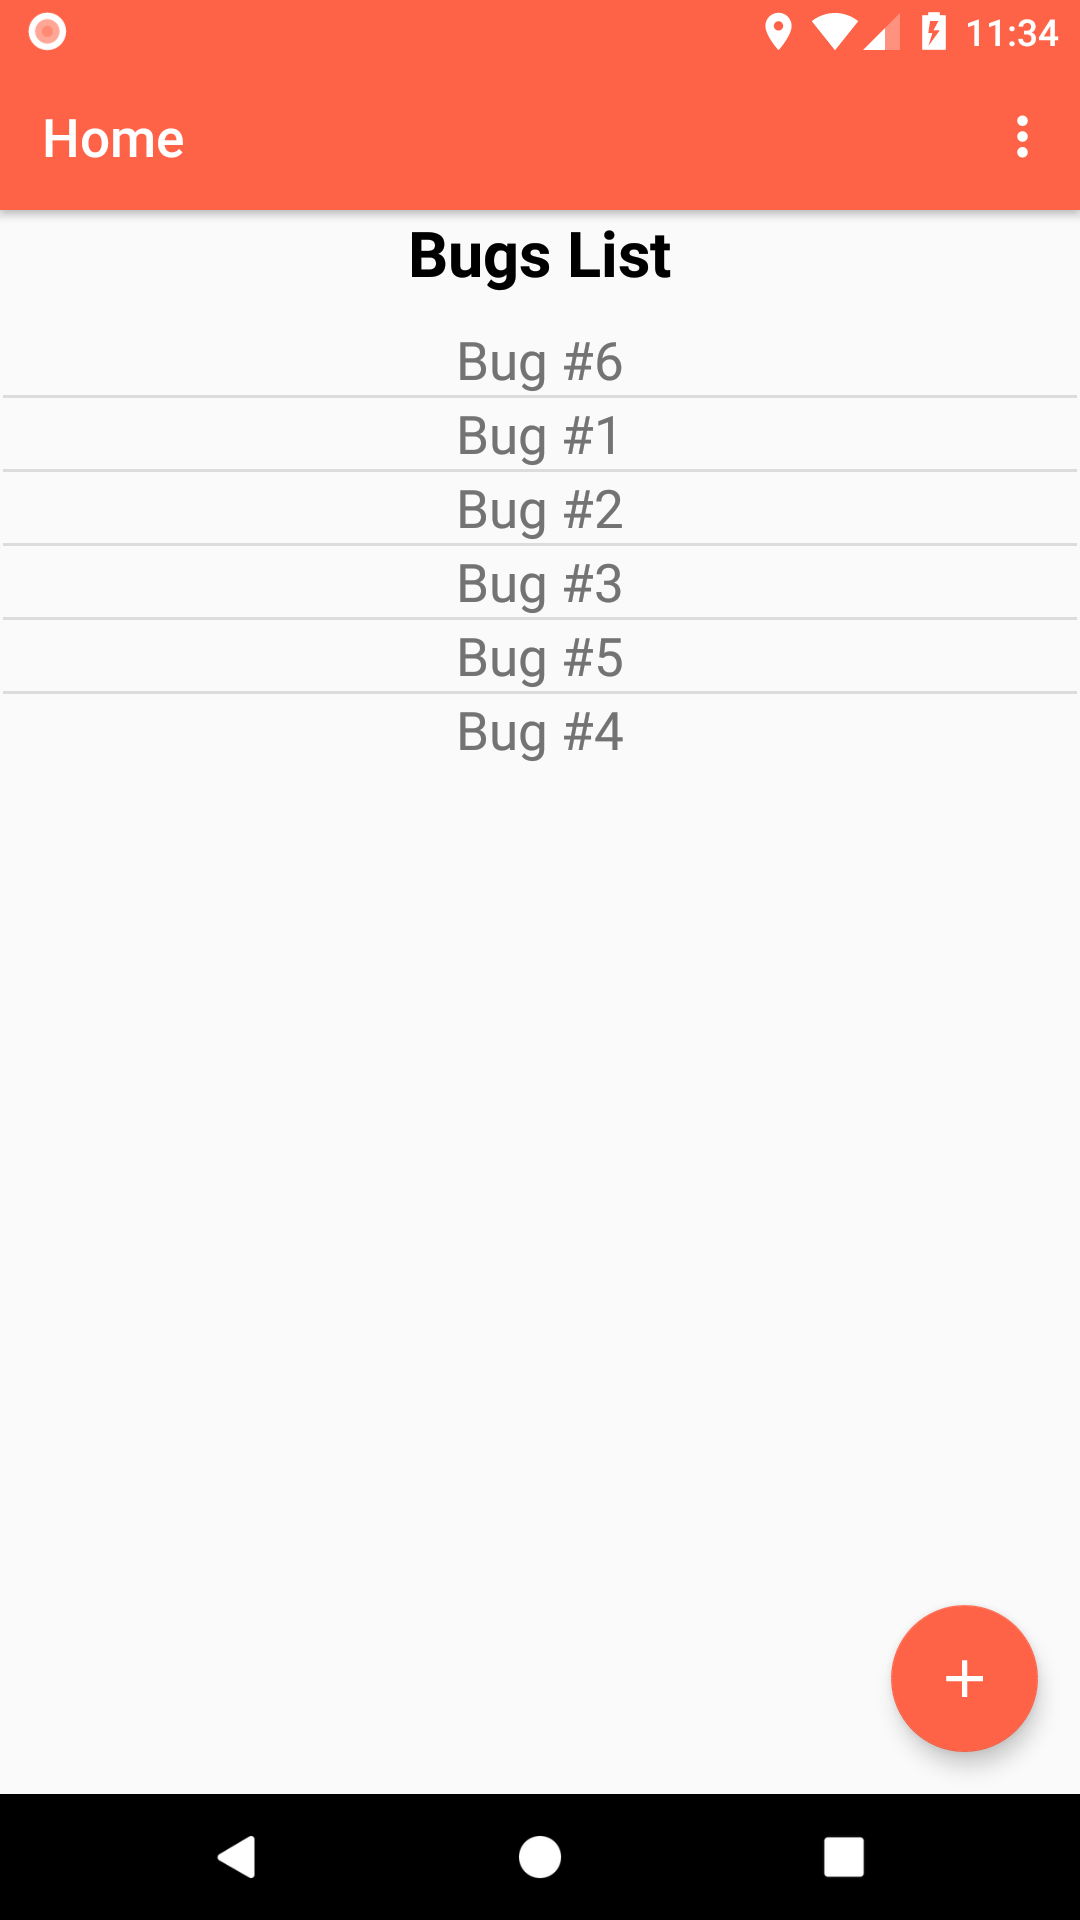
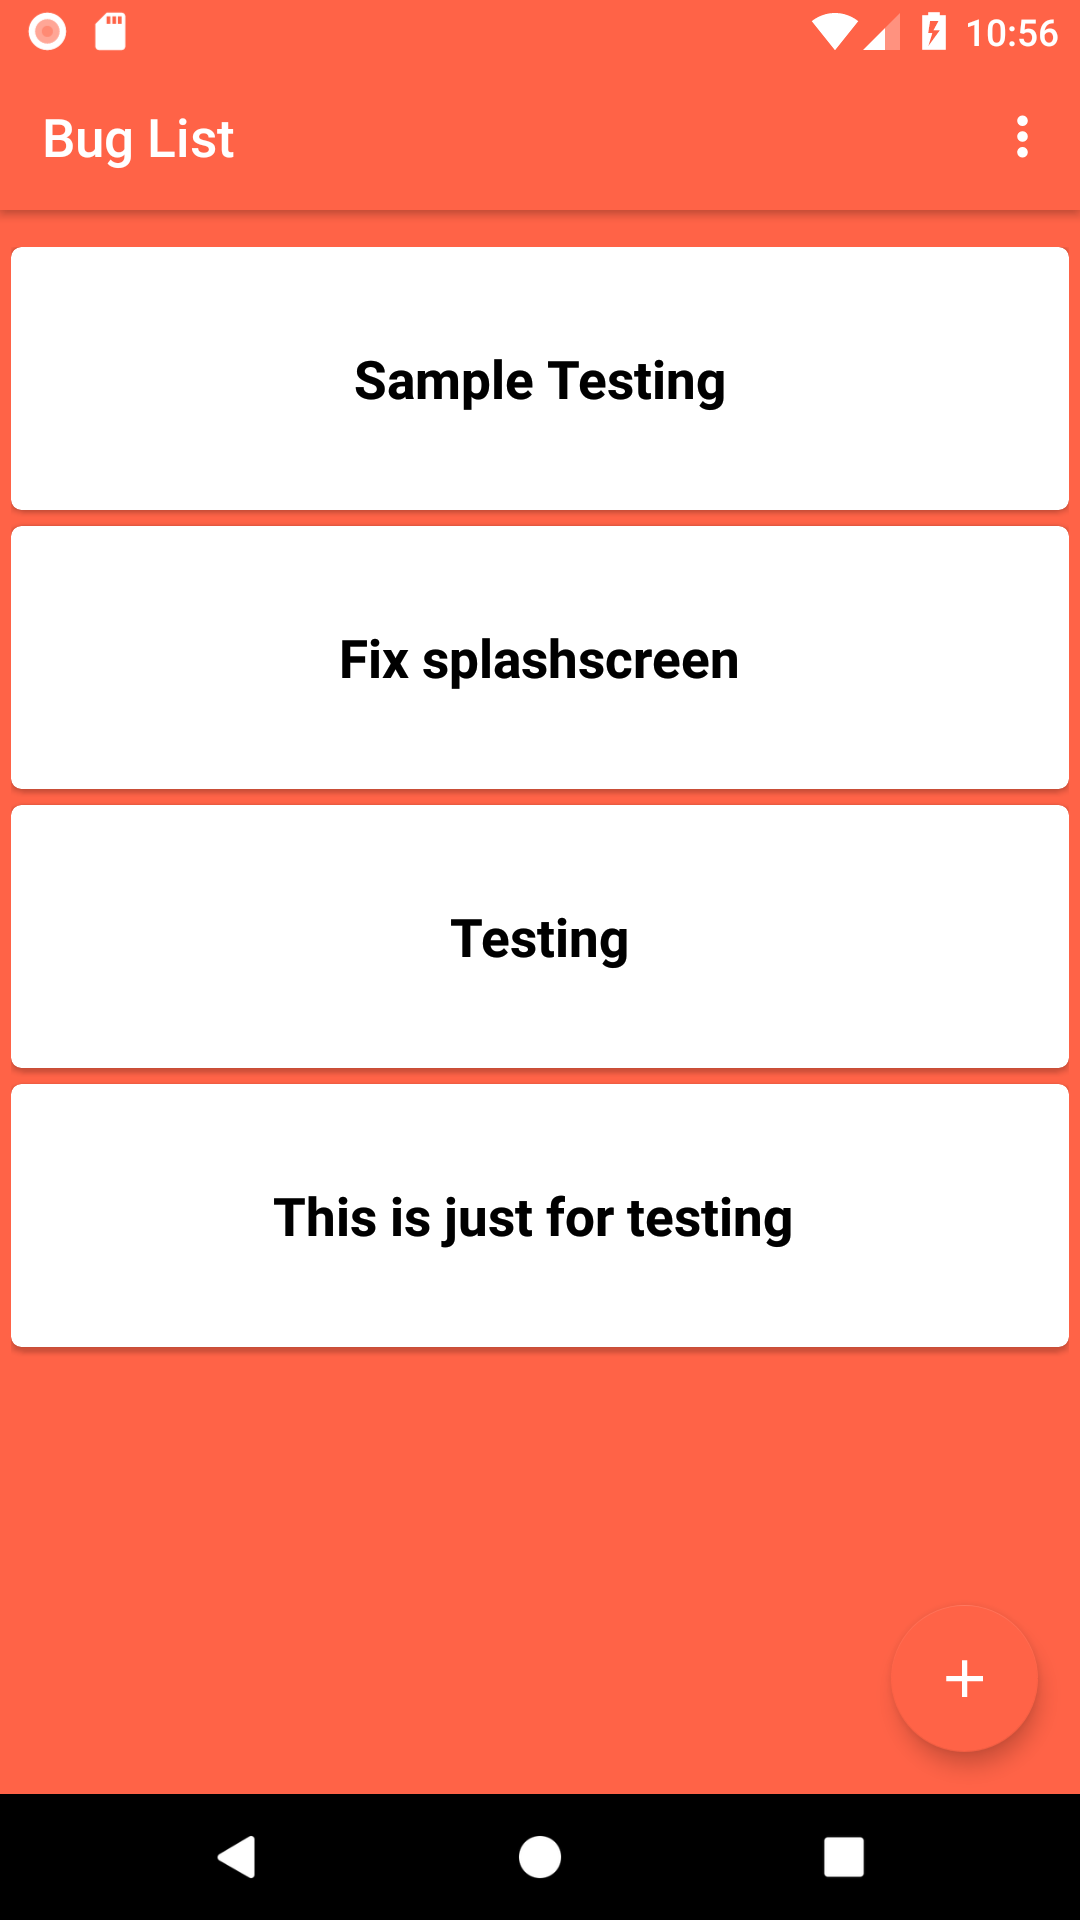
Improved UI

diff --git a/app/src/main/java/com/example/sivaram/bugtracker/MainActivity.java b/app/src/main/java/com/example/sivaram/bugtracker/MainActivity.java
@@ -55,7 +55,7 @@ public class MainActivity extends AppCompatActivity
 
         Toolbar toolbar = (Toolbar) findViewById(R.id.toolbar);
         setSupportActionBar(toolbar);
-        getSupportActionBar().setTitle("Home");
+        getSupportActionBar().setTitle("Bug List");
         try {
             admin = getIntent().getExtras().getBoolean("Admin",false);
             userid = getIntent().getExtras().getString("UID");
@@ -70,42 +70,42 @@ public class MainActivity extends AppCompatActivity
         MyApolloClient.getApolloClient().query(ViewBugsQuery.builder()
                 .userId(userid).build())
                 .enqueue(new ApolloCall.Callback<ViewBugsQuery.Data>() {
-            @Override
-            public void onResponse(@Nonnull final Response<ViewBugsQuery.Data> response) {
-
-                runOnUiThread(new Runnable() {
                     @Override
-                    public void run() {
-                        listitemtitle=new String[response.data().viewBugs.size()];
-                        listitemdescp= new String[response.data().viewBugs.size()];
-                        assignedto= new String[response.data().viewBugs.size()];
-                        bugidd= new String[response.data().viewBugs.size()];
-                        statuss=new String[response.data().viewBugs.size()];
-                        for (int i=0;i<response.data().viewBugs.size();i++) {
-                            Log.e("",""+response.data().viewBugs.get(i).title);
-                            listitemtitle[i]=response.data().viewBugs.get(i).title;
-                            bugidd[i]=response.data().viewBugs.get(i).id;
-                            statuss[i]=response.data().viewBugs.get(i).status;
-                            listitemdescp[i]=response.data().viewBugs.get(i).description;
-                            assignedto[i]=response.data().viewBugs.get(i).assignedTo.email;
-                            Log.e("",""+ Arrays.toString(assignedto));
-                            list.add(response.data().viewBugs.get(i).title);
-                            adapter.notifyDataSetChanged();
-                        }
+                    public void onResponse(@Nonnull final Response<ViewBugsQuery.Data> response) {
+
+                        runOnUiThread(new Runnable() {
+                            @Override
+                            public void run() {
+                                listitemtitle=new String[response.data().viewBugs.size()];
+                                listitemdescp= new String[response.data().viewBugs.size()];
+                                assignedto= new String[response.data().viewBugs.size()];
+                                bugidd= new String[response.data().viewBugs.size()];
+                                statuss=new String[response.data().viewBugs.size()];
+                                for (int i=0;i<response.data().viewBugs.size();i++) {
+                                    Log.e("",""+response.data().viewBugs.get(i).title);
+                                    listitemtitle[i]=response.data().viewBugs.get(i).title;
+                                    bugidd[i]=response.data().viewBugs.get(i).id;
+                                    statuss[i]=response.data().viewBugs.get(i).status;
+                                    listitemdescp[i]=response.data().viewBugs.get(i).description;
+                                    assignedto[i]=response.data().viewBugs.get(i).assignedTo.email;
+                                    Log.e("",""+ Arrays.toString(assignedto));
+                                    list.add(response.data().viewBugs.get(i).title);
+                                    adapter.notifyDataSetChanged();
+                                }
+
+                            }
+                        });
+
+
+
+                    }
+
+                    @Override
+                    public void onFailure(@Nonnull ApolloException e) {
+                        Log.e("","jhfjhfjhjfd");
 
                     }
                 });
-
-
-
-            }
-
-            @Override
-            public void onFailure(@Nonnull ApolloException e) {
-                Log.e("","jhfjhfjhjfd");
-
-            }
-        });
 
         bugid.setAdapter(adapter);
         bugid.setOnItemClickListener(new AdapterView.OnItemClickListener() {
@@ -138,11 +138,11 @@ public class MainActivity extends AppCompatActivity
         fab.setOnClickListener(new View.OnClickListener() {
             @Override
             public void onClick(View view) {
-               Intent intent= new Intent(MainActivity.this,AddBug.class);
+                Intent intent= new Intent(MainActivity.this,AddBug.class);
                 intent.putExtra("UID",userid);
                 intent.putExtra("assigned",assignedto);
                 intent.putExtra("Admin",admin);
-               startActivity(intent);
+                startActivity(intent);
             }
         });
 

diff --git a/app/src/main/java/com/example/sivaram/bugtracker/MyApolloClient.java b/app/src/main/java/com/example/sivaram/bugtracker/MyApolloClient.java
@@ -6,7 +6,7 @@ import okhttp3.OkHttpClient;
 import okhttp3.logging.HttpLoggingInterceptor;
 
 public class MyApolloClient {
-    private  static final String BASE_URL = "https://bugtracker-server.herokuapp.com/";
+    private  static final String BASE_URL = "https://bugtracker-server.herokuapp.com/"; //http://192.168.43.33:4444/
     private static ApolloClient apolloClient;
 
 
